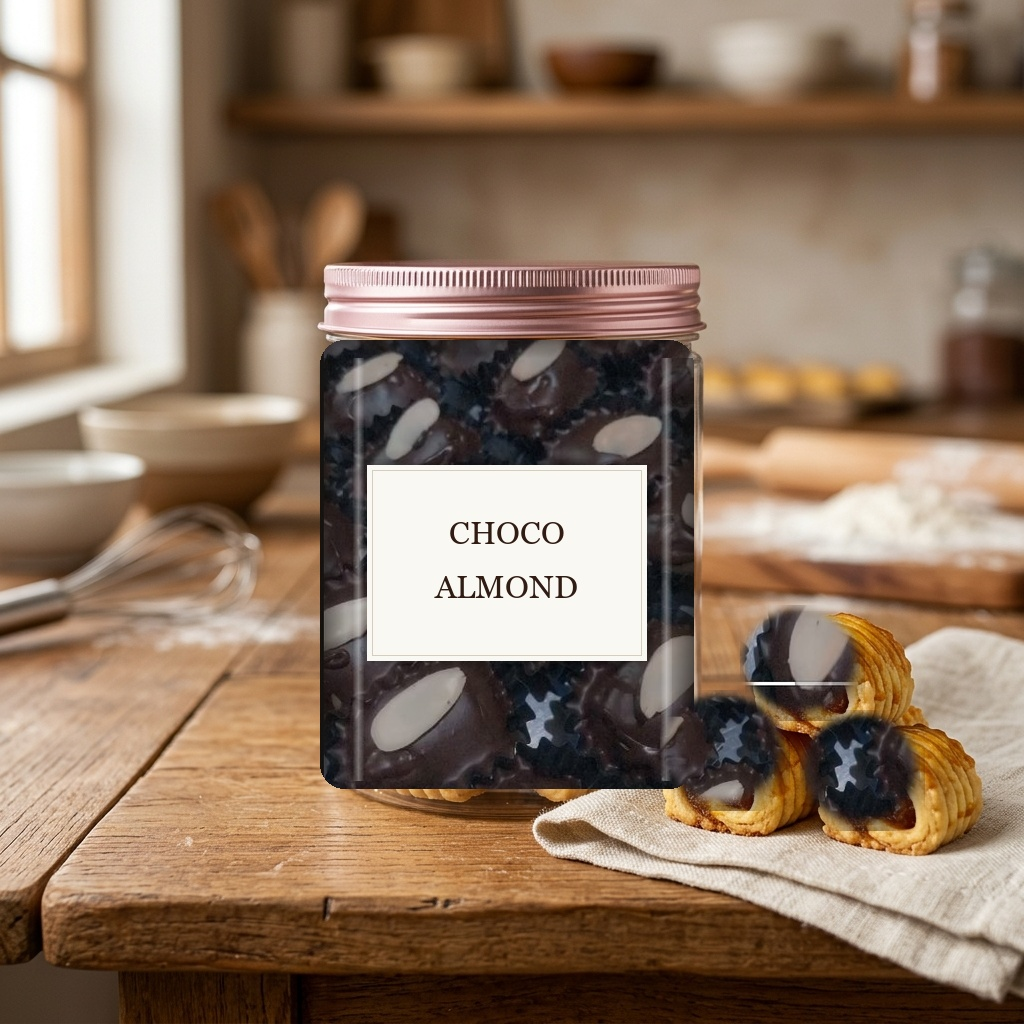
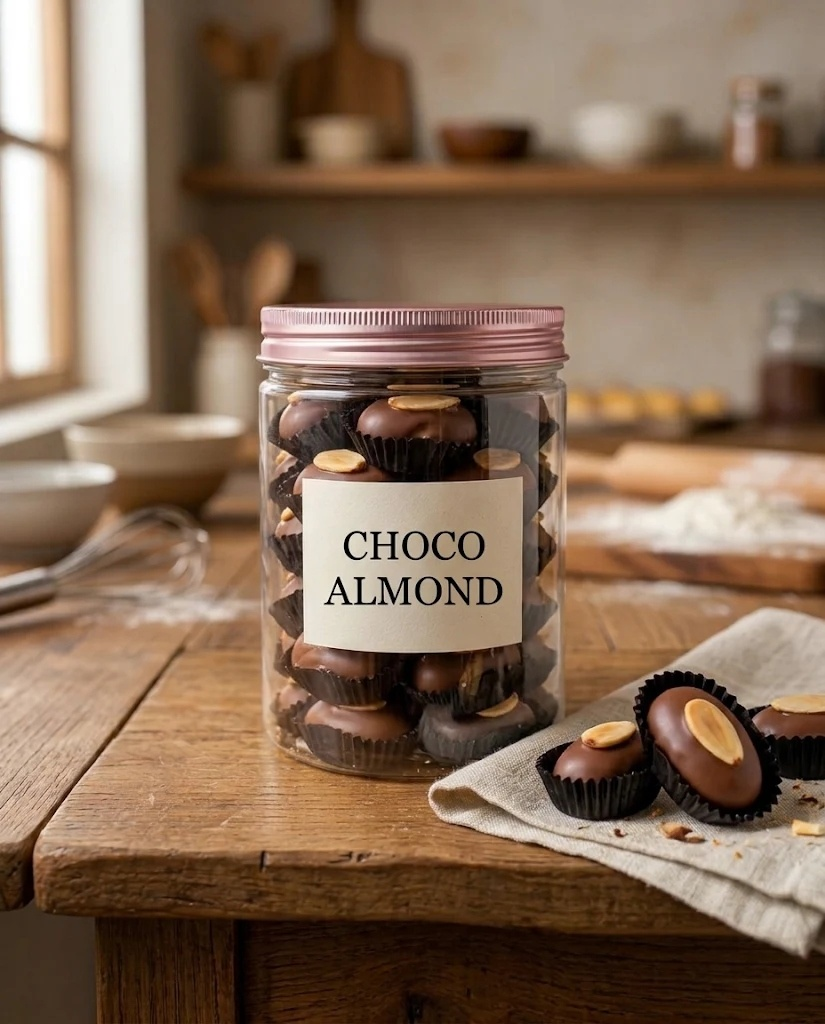
Update Kastengel Cokelat and Choco Almond images, remove Kastengel Keju and Thumbprints

diff --git a/script.js b/script.js
@@ -39,16 +39,6 @@ const COOKIE_PRODUCTS = [
     desc: "Inovasi gurih-manis kastengel cokelat khas Nabje Kukis yang renyah dan cocok untuk teman ngopi."
   },
   {
-    id: "thumbprint-choco",
-    name: "Thumbprint Choco",
-    category: "cokelat",
-    badge: "Favorit Cokelat",
-    price: 80000,
-    size: "Toples Tabung 600ml",
-    image: "assets/products/thumbprint-choco.jpg",
-    desc: "Kukis renyah dengan isian cokelat lumer tebal di tengah yang memanjakan lidah para pecinta cokelat."
-  },
-  {
     id: "choco-almond",
     name: "Choco Almond Kukis",
     category: "cokelat",
@@ -69,16 +59,6 @@ const COOKIE_PRODUCTS = [
     desc: "Tekstur renyah lembut yang langsung lumer di lidah berpadu gurihnya keju dan santan segar."
   },
   {
-    id: "kastengel-keju",
-    name: "Kastengel Keju Gurih",
-    category: "keju",
-    badge: "Keju Melimpah",
-    price: 100000,
-    size: "Toples Tabung 600ml",
-    image: "assets/products/kastengel-keju.jpg",
-    desc: "Kue kering keju panggang super gurih dan renyah dengan parutan keju edam melimpah."
-  },
-  {
     id: "nastar-gulung",
     name: "Kue Nastar Gulung",
     category: "nastar",
@@ -97,16 +77,6 @@ const COOKIE_PRODUCTS = [
     size: "Toples Tabung 600ml",
     image: "assets/products/putri-salju.jpg",
     desc: "Kukis putri salju lumer dengan taburan gula halus dingin khas Nabje Kukis yang manis dan lembut."
-  },
-  {
-    id: "thumbprint-strawberry",
-    name: "Thumbprint Strawberry",
-    category: "nastar",
-    badge: "Manis Segar",
-    price: 80000,
-    size: "Toples Tabung 600ml",
-    image: "assets/products/thumbprint-strawberry.jpg",
-    desc: "Kukis mentega renyah dengan lelehan selai strawberry segar manis di tengahnya. Sangat cantik di meja tamu."
   }
 ];
 
